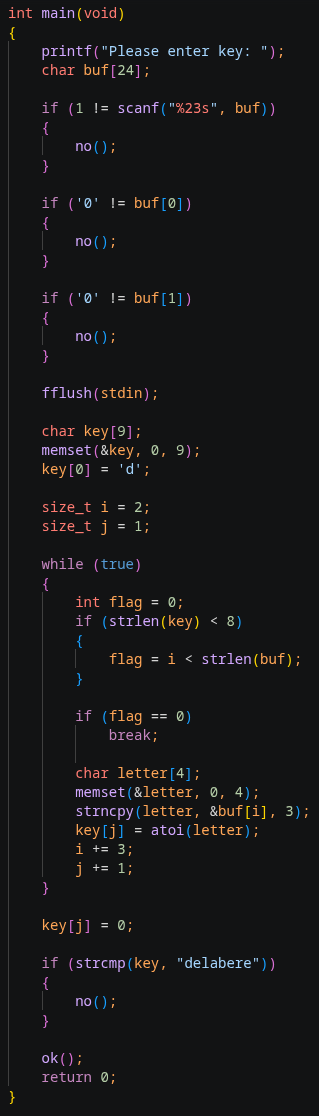
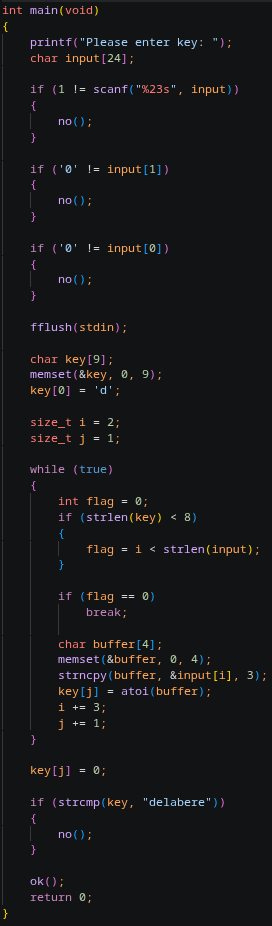
lvl 3 reverse_me finished

diff --git a/Reverse_me/level3/source.c b/Reverse_me/level3/source.c
@@ -1,0 +1,119 @@
+#include <stdint.h>
+#include <stdlib.h>
+#include <stdio.h>
+#include <string.h>
+#include <stdbool.h>
+
+void nope(void)
+{
+    puts("Nope.");
+    exit(1);
+    
+}
+
+int good_job(void)
+{
+    return puts("Good job.");
+}
+
+int main(void)
+{
+    printf("Please enter key: ");
+    char input[24];
+    
+    if (1 != scanf("%23s", input))
+    {
+        nope();
+    }
+    
+    if ('2' != input[1])
+    {
+        nope();
+    }
+    
+    if ('4' != input[0])
+    {
+        nope();  
+    }
+    
+    fflush(stdin);
+    
+    char key[9];
+    memset(&key, 0, 9);
+    key[0] = '*';
+    
+    size_t i = 2;
+    size_t j = 1;
+    
+    while (true)
+    {
+        int flag = 0;
+        if (strlen(key) < 8)
+        {
+            flag = i < strlen(input);
+        }
+
+        if (flag == 0)
+            break;
+
+        char buffer[4];
+        memset(&buffer, 0, 4);
+        strncpy(buffer, &input[i], 3);
+        key[j] = atoi(buffer);
+        i += 3;
+        j += 1;
+    }
+    
+    key[j] = 0;
+    
+    switch (strcmp(key, "********"))
+    {
+        case 0:
+        {
+            good_job();
+            return 0;
+        }
+        case 1:
+        {
+            nope();
+            return 1;
+        }
+        case 2:
+        {
+            nope();
+            return 1;
+        }
+        case 3:
+        {
+            nope();
+            return 1;
+        }
+        case 4:
+        {
+            nope();
+            return 1;
+        }
+        case 5:
+        {
+            nope();
+            return 1;
+        }
+        case 115:
+        {
+            nope();
+            return 1;
+        }
+        case 4294967294:
+        {
+            nope();
+            return 1;
+        }
+        case 4294967295:
+        {
+            nope();
+            return 1;
+        }
+    }
+    nope();
+    return 1;
+}

diff --git a/Reverse_me/level2/source.c b/Reverse_me/level2/source.c
@@ -2,13 +2,14 @@
 #include <stdlib.h>
 #include <stdio.h>
 #include <string.h>
+#include <stdbool.h>
 
-int ok()
+int ok(void)
 {
     return puts("Good job.");
 }
 
-void no()
+void no(void)
 {
     puts("Nope.");
     exit(1);
@@ -17,19 +18,19 @@ void no()
 int main(void)
 {
     printf("Please enter key: ");
-    char buf[24];
+    char input[24];
     
-    if (1 != scanf("%23s", buf))
+    if (1 != scanf("%23s", input))
     {
         no();
     }
     
-    if ('0' != buf[0])
+    if ('0' != input[1])
     {
         no();
     }
 
-    if ('0' != buf[1])
+    if ('0' != input[0])
     {
         no();
     }
@@ -48,16 +49,16 @@ int main(void)
         int flag = 0;
         if (strlen(key) < 8)
         {
-            flag = i < strlen(buf);
+            flag = i < strlen(input);
         }
 
         if (flag == 0)
             break;
         
-        char letter[4];
-        memset(&letter, 0, 4);
-        strncpy(letter, &buf[i], 3);
-        key[j] = atoi(letter);
+        char buffer[4];
+        memset(&buffer, 0, 4);
+        strncpy(buffer, &input[i], 3);
+        key[j] = atoi(buffer);
         i += 3;
         j += 1;
     }

diff --git a/Reverse_me/README.md b/Reverse_me/README.md
@@ -54,6 +54,72 @@ It consists of three programs with increasing levels of difficulty. The goal is 
     - Remove the Docker image: docker rmi -f r_me_image
 
 
+
+# Solving the exercises
+
+## Level 1
+
+![file_command](./utils/level1/file_command.png)
+
+The analysis begins by identifying the binary with the `file` command. The output shows that the executable is a 32-bit ELF binary and, most importantly, that it is **not stripped**. This means function names are still available, making the analysis much easier.
+
+Next, the binary is loaded into GDB. Using `info functions` reveals the imported functions (`printf`, `scanf`, `strcmp`) as well as the program's `main` function, which is the logical starting point for the analysis.
+
+![info_command](./utils/level1/info_command.png)
+
+A breakpoint is then set on `main`, and the function is disassembled. The assembly code shows that the program prompts the user for a key with `printf`, reads the input using `scanf`, and finally compares it with a reference string using `strcmp`.
+
+![disassembled_main](./utils/level1/disassembled_main.png)
+
+To determine the expected password, a breakpoint is placed just before the call to `strcmp`. At this point, the registers contain the two arguments passed to the function: the user input (`ECX`) and the expected string (`EDX`). Examining these registers with `x/s` reveals both strings, allowing the correct password to be recovered directly.
+
+![result](./utils/level1/result.png)
+
+
+## Level 2
+
+Unlike the first exercise, the analysis was performed by first decompiling the binary with `Binary Ninja`. The generated pseudocode was then cleaned up into readable C code, making the program's logic much easier to understand before validating the findings in GDB.
+
+![binary_ninja](./utils/level2/binary_ninja.png)
+
+The decompiler represents the input buffer as a series of stack variables (var_39, var_38, ...) rather than as a character array. This is a consequence of the stack layout. Since the program calls scanf("%23s", &var_39), the user input is stored starting at the address of var_39, meaning that each subsequent stack byte corresponds to the next character of the input:
+
+    var_39 == input[0]
+    var_38 == input[1]
+    var_37 == input[2]
+    ...
+
+The reconstructed code therefore reveals that the program first checks whether the input begins with two '0' characters. If either check fails, the program immediately calls `no()`.
+The code also shows that the output string is initialized with the character 'd' before any user input is processed. As a result, the ASCII value of 'd' must not be included in the input, since it is already present in the reconstructed key.
+
+![cleaned_code](./utils/level2/cleaned_code.png)
+
+The remaining input is then processed in groups of three characters. Each group is interpreted as a decimal number with `atoi()`, and the resulting integer is stored as a single ASCII character, gradually reconstructing the expected string. Because the algorithm always reads three characters at a time, ASCII values below 100 (such as 97 for 'a' or 98 for 'b') must be written with a leading zero (097, 098) to preserve the correct grouping.
+
+![conversion](./utils/level2/convert.png)
+
+Finally, the reconstructed logic is verified in GDB. Setting a breakpoint just before the call to `strcmp()` confirms that the generated string is stored in one register while the expected password ("delabere") is passed in the other. From this analysis, the correct input is obtained by starting with two leading zeros, followed by the three-digit decimal ASCII values of the remaining characters of "delabere" (e, l, a, b, e, r, e).
+
+![result](./utils/level2/result.png)
+
+
+## Level 3
+
+The analysis of this exercise follows exactly the same methodology as **Level 2**. After decompiling the binary with `Binary Ninja`, the generated pseudocode can be cleaned up into readable C code, revealing that the core algorithm is unchanged.
+
+![cleaned_code](./utils/level3/main1.png) ![cleaned_code](./utils/level3/main2.png)
+
+The program still reconstructs the expected key by first validating a fixed two-character prefix, then reading the remaining input in groups of three decimal digits. Each group is converted to its ASCII equivalent with `atoi()` and appended to the reconstructed string. As in the previous exercise, ASCII values below `100` must therefore be written with a leading zero to preserve the correct three-digit grouping.
+
+The only meaningful differences are the required prefix (`"42"` instead of `"00"`), the initial character already stored in the reconstructed key (`'*'` instead of `'d'`), and the final string used by `strcmp()`. Apart from these constants, the reconstruction logic is identical to **Level 2**, allowing the same reverse engineering approach to be applied without any additional complexity.
+
+![conversion](./utils/level3/convert.png)
+
+As before, the reconstructed string can be verified in GDB immediately before the call to `strcmp()`, confirming that the generated key matches the expected value stored by the program.
+
+![result](./utils/level3/result.png)
+
+
 # Technical Notes
 
 ### **Reverse Engineering**
@@ -140,50 +206,6 @@ We can infer that the program:
 - Set a breakpoint at a function or address: `break <function_name or address>`.
 
 - Run the program: `run`.
-
-
-# Solving the Exercises
-
-## Level 1
-
-![file_command](./utils/level1/file_command.png)
-
-The analysis begins by identifying the binary with the `file` command. The output shows that the executable is a 32-bit ELF binary and, most importantly, that it is **not stripped**. This means function names are still available, making the analysis much easier.
-
-Next, the binary is loaded into GDB. Using `info functions` reveals the imported functions (`printf`, `scanf`, `strcmp`) as well as the program's `main` function, which is the logical starting point for the analysis.
-
-![info_command](./utils/level1/info_command.png)
-
-A breakpoint is then set on `main`, and the function is disassembled. The assembly code shows that the program prompts the user for a key with `printf`, reads the input using `scanf`, and finally compares it with a reference string using `strcmp`.
-
-![disassembled_main](./utils/level1/disassembled_main.png)
-
-To determine the expected password, a breakpoint is placed just before the call to `strcmp`. At this point, the registers contain the two arguments passed to the function: the user input (`ECX`) and the expected string (`EDX`). Examining these registers with `x/s` reveals both strings, allowing the correct password to be recovered directly.
-
-![result](./utils/level1/result.png)
-
-
-## Level 2
-
-Unlike the first exercise, the analysis was performed by first decompiling the binary with `Binary Ninja`. The generated pseudocode was then cleaned up into readable C code, making the program's logic much easier to understand before validating the findings in GDB.
-
-![binary_ninja](./utils/level2/binary_ninja.png)
-
-The reconstructed code reveals that the program first checks whether the input begins with two `'0'` characters. If either check fails, the program immediately calls `no()`.
-The code also shows that the output string is initialized with the character 'd' before any user input is processed. As a result, the ASCII value of 'd' must not be included in the input, since it is already present in the reconstructed key.
-
-![cleaned_code](./utils/level2/cleaned_code.png)
-
-The remaining input is then processed in groups of three characters. Each group is interpreted as a decimal number with `atoi()`, and the resulting integer is stored as a single ASCII character, gradually reconstructing the expected string. Because the algorithm always reads three characters at a time, ASCII values below 100 (such as 97 for 'a' or 98 for 'b') must be written with a leading zero (097, 098) to preserve the correct grouping.
-
-![conversion](./utils/level2/convert.png)
-
-Finally, the reconstructed logic is verified in GDB. Setting a breakpoint just before the call to `strcmp()` confirms that the generated string is stored in one register while the expected password ("delabere") is passed in the other. From this analysis, the correct input is obtained by starting with two leading zeros, followed by the three-digit decimal ASCII values of the remaining characters of "delabere" (e, l, a, b, e, r, e).
-
-![result](./utils/level2/result.png)
-
-
-## Level 3
 
 
 # Resources